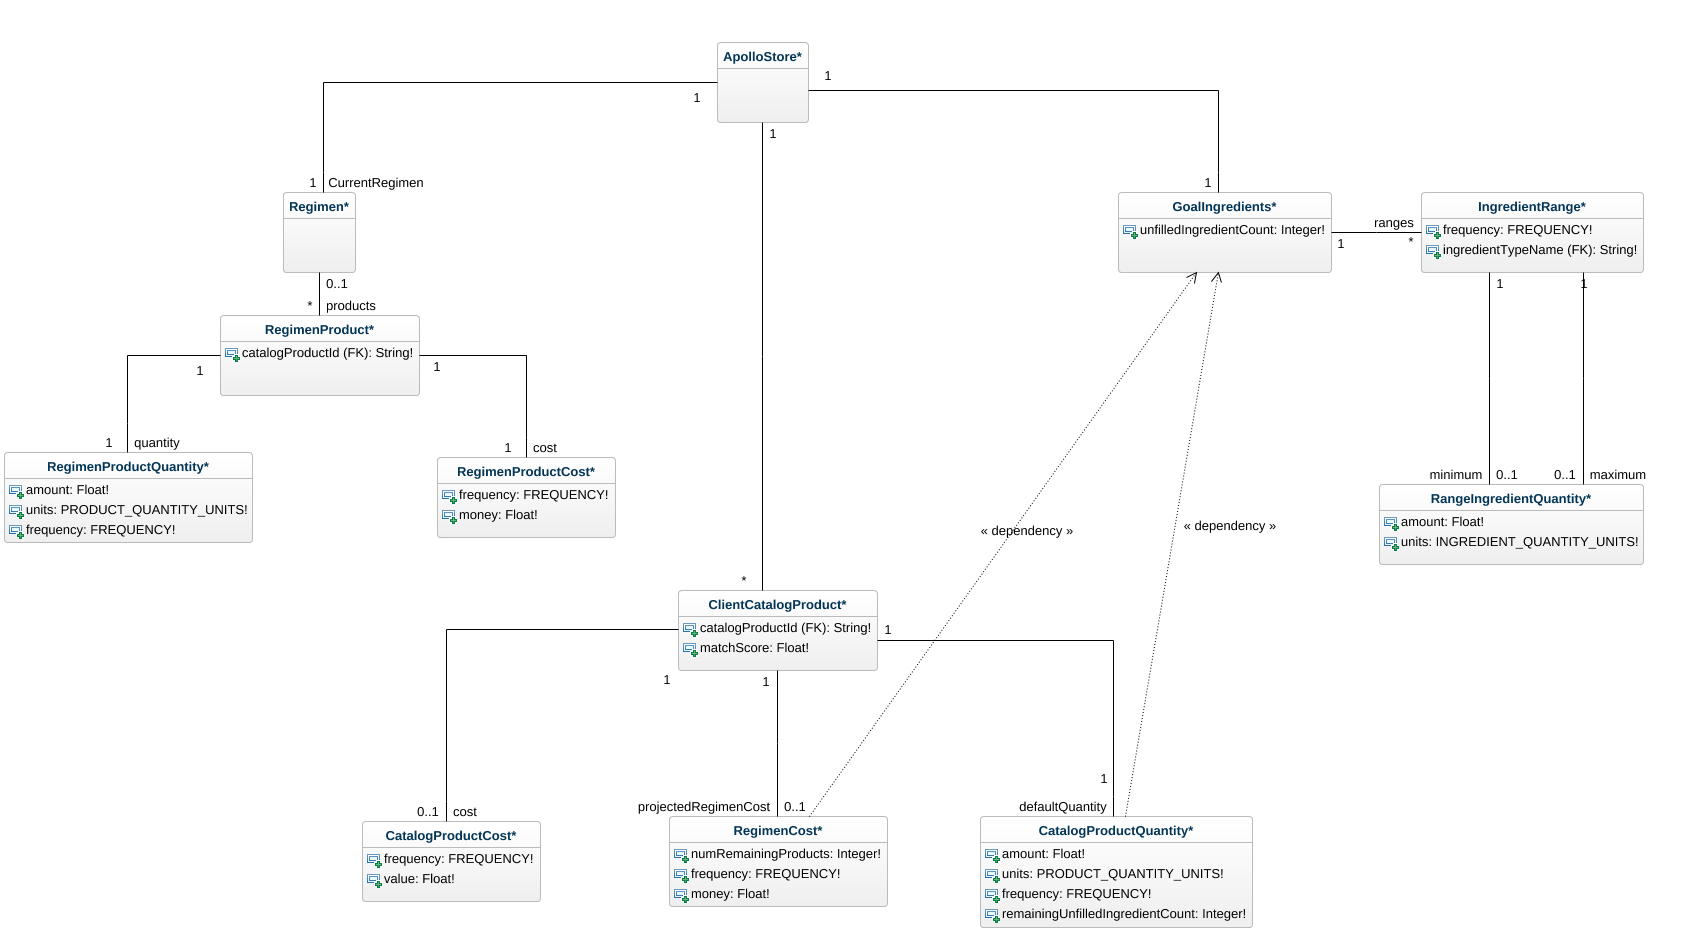
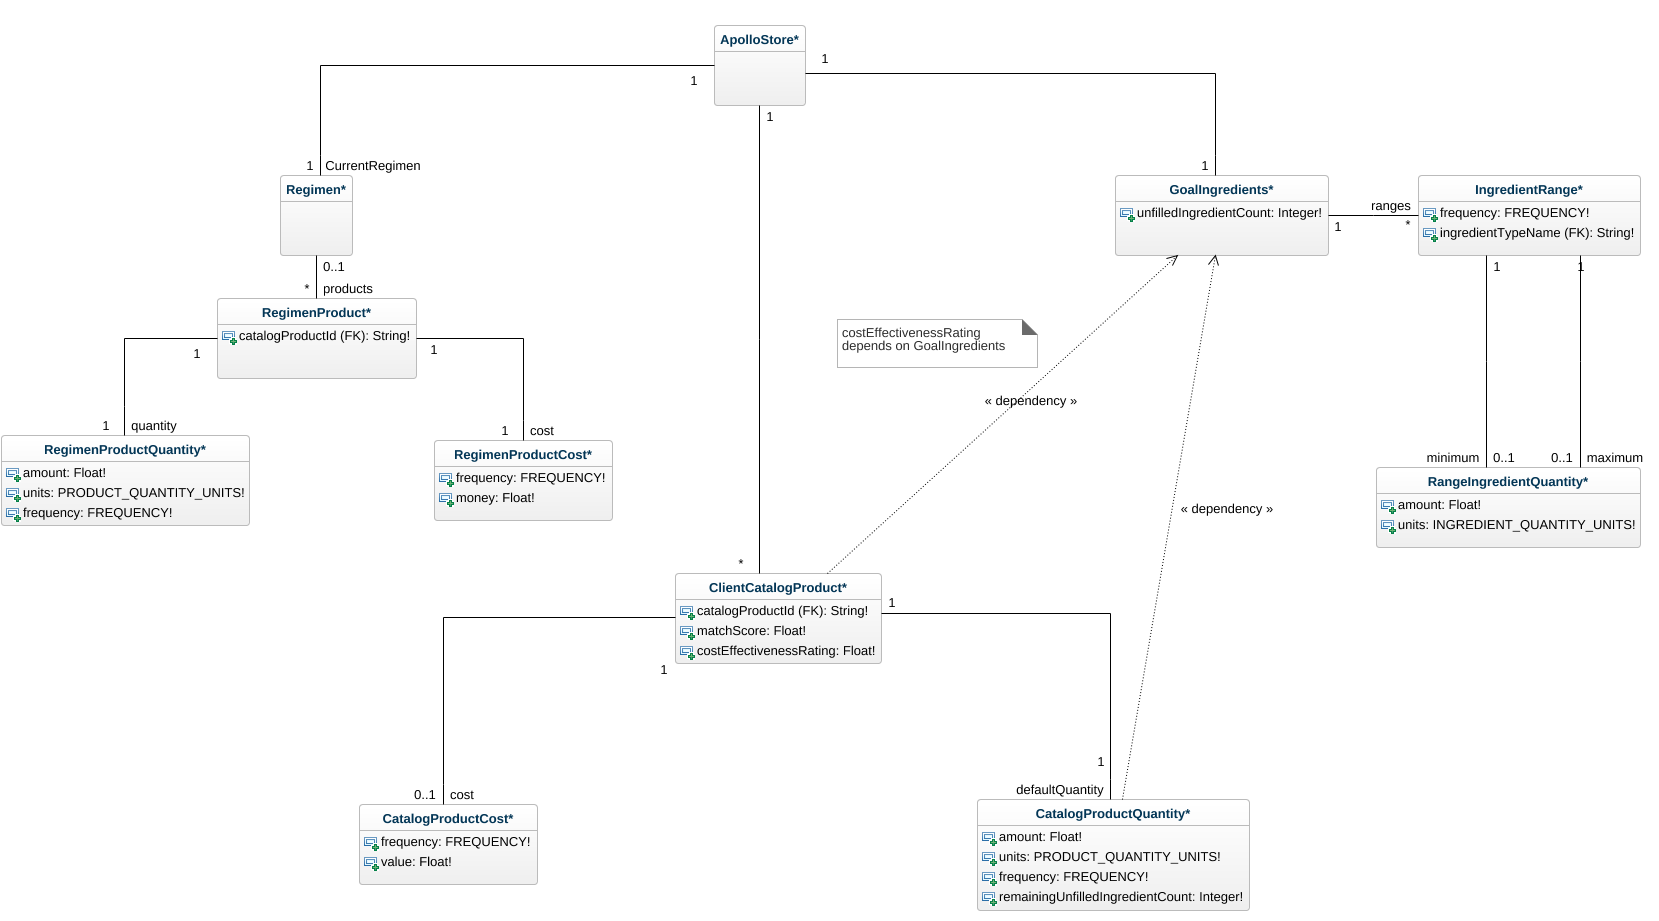
domain model writeup

diff --git a/README.md b/README.md
@@ -30,7 +30,7 @@
 
 &nbsp;
 
-Our mission with BariBuilder is to spread **transparent** information about supplement products to you, **bariatric patients**, in order to improve your **medical outcomes** and lower your costs.
+Our mission with BariBuilder is to spread **transparent** information about supplement products to you, **bariatric patients**, in order to improve your **medical outcomes** and lower your **costs**.
 
 Read more about our mission [here](https://baribuilder.com/about), and the problem facing bariatric patients [here](https://blog.baribuilder.com/wls-patients-need-personalized-bariatric-vitamin-regimens/).
 
@@ -92,6 +92,44 @@ At the moment, the only process in place is a price updater, which uses Viglink'
 The [gql-scripts](gql-scripts) directory contains data wrangling scripts for various Graphcool operations. These are meant to be invoked manually from a local machine. Think of them as analogous to SQL scripts.
 
 ## Domain Model
+
+### API Model (persisted)
+
+Pictured is a UML diagram of the BariBuilder API's GraphQL schema (which Graphcool translates into a SQL schema).
+
+<p align="center">
+    <img src="https://raw.githubusercontent.com/tadasant/baribuilder/master/img/API%20model.png?token=ADuF41roK8ip6Q9ySGiuRHFNKlrJSKP2ks5cU20gwA%3D%3D" width="640" />
+</p>
+<p align="center">
+     <a href="https://raw.githubusercontent.com/tadasant/baribuilder/master/img/API%20model.png?token=ADuF41roK8ip6Q9ySGiuRHFNKlrJSKP2ks5cU20gwA%3D%3D">Click here to enlarge</a>
+</p>
+
+The core of the model starts with **CatalogProduct** in the middle. We have a row here for every product we offer for sale/analysis on BariBuilder. A Catalog Product may have zero or more associated **images**. As you can see on a Nutrition/Supplement Facts label, every Product has details on what a **Serving** is for that product. Looking at the line-by-line of that label, you would see one or more **ServingIngredients**. Each Serving Ingredient is composed of at least an **IngredientType** (e.g. Vitamin A) and, optionally, some **quantity**. Sometimes ingredients have only trace quantities, so the quantity is unlisted.
+
+Looking at the other side of **CatalogProduct**, we have the domain related to retail operations. Every product comes in some sort of **ProductPackage**, where you'll find a bunch of tablets or units of that product being sold in a bottle. This Package typically has some **PackageIndentifier**, like a UPC code or ASIN code. Each Package can be sold in zero or more places on the internet, hence the package is associated to **listings**. A listing has a **price** at a given time, and we may also have stored a specific **AffiliateLink** to that listing.
+
+The orphaned **URL** object is a hacky datastore for our link shortener that we use for generating shareable URLs with long query parameters. And the **User** object is as-of-yet unused.
+
+### Client-side Model (not persisted)
+
+Pictured is a UML diagram of the BariBuilder UI's model insofar as a user has loaded 
+
+None of this data is (currently) persisted, but is the client's view of the world during a user's session with the single page application.
+
+The data represented in this model is currently managed using [Apollo's local state management system](https://www.apollographql.com/docs/react/essentials/local-state.html). This is certainly not the optimal way to do it. It should be managed on the server side - and that is the plan once migration from Graphcool to Prisma is complete. 
+
+<p align="center">
+    <img src="https://raw.githubusercontent.com/tadasant/baribuilder/master/img/UI%20model.png?token=ADuF4y6PxhH0IgXUakejTbiC2WufnN1-ks5cU20ywA%3D%3D" width="800" />
+</p>
+<p align="center">
+     <a href="https://raw.githubusercontent.com/tadasant/baribuilder/master/img/UI%20model.png?token=ADuF4y6PxhH0IgXUakejTbiC2WufnN1-ks5cU20ywA%3D%3D">Click here to enlarge</a>
+</p>
+
+**ApolloStore** refers to a single client's instance of the local store. Every local store has one **CurrentRegimen** (you can think of this as their "shopping cart"), which is composed of zero or more **products**. Each product has some **quantity** and total **cost** (which changes based on the quantity). Cost is generally a nontrivial concept because the "cost" of a vitamin product is not simply the sticker price - it is the amount of money it will cost them *over a period of time* assuming the consumption of a certain *quantity*.
+
+Every local store also has a list of **ClientCatalogProducts**. The number of items in this list is equal to the number of CatalogProducts on the API's side. The intent here is to contextualize the entire catalog for this specific user. So every ClientCatalogProduct has potential **cost** for this user given some specific **defaultQuantity**.
+
+Lastly, each local store has a set of **GoalIngredients** (set on the /goals page in the app). These Goal Ingredients are composed of zero or more **ranges**, each of which has some **minimum** quantity and **maximum** quantity.
 
 ## List of Shortcomings
 
